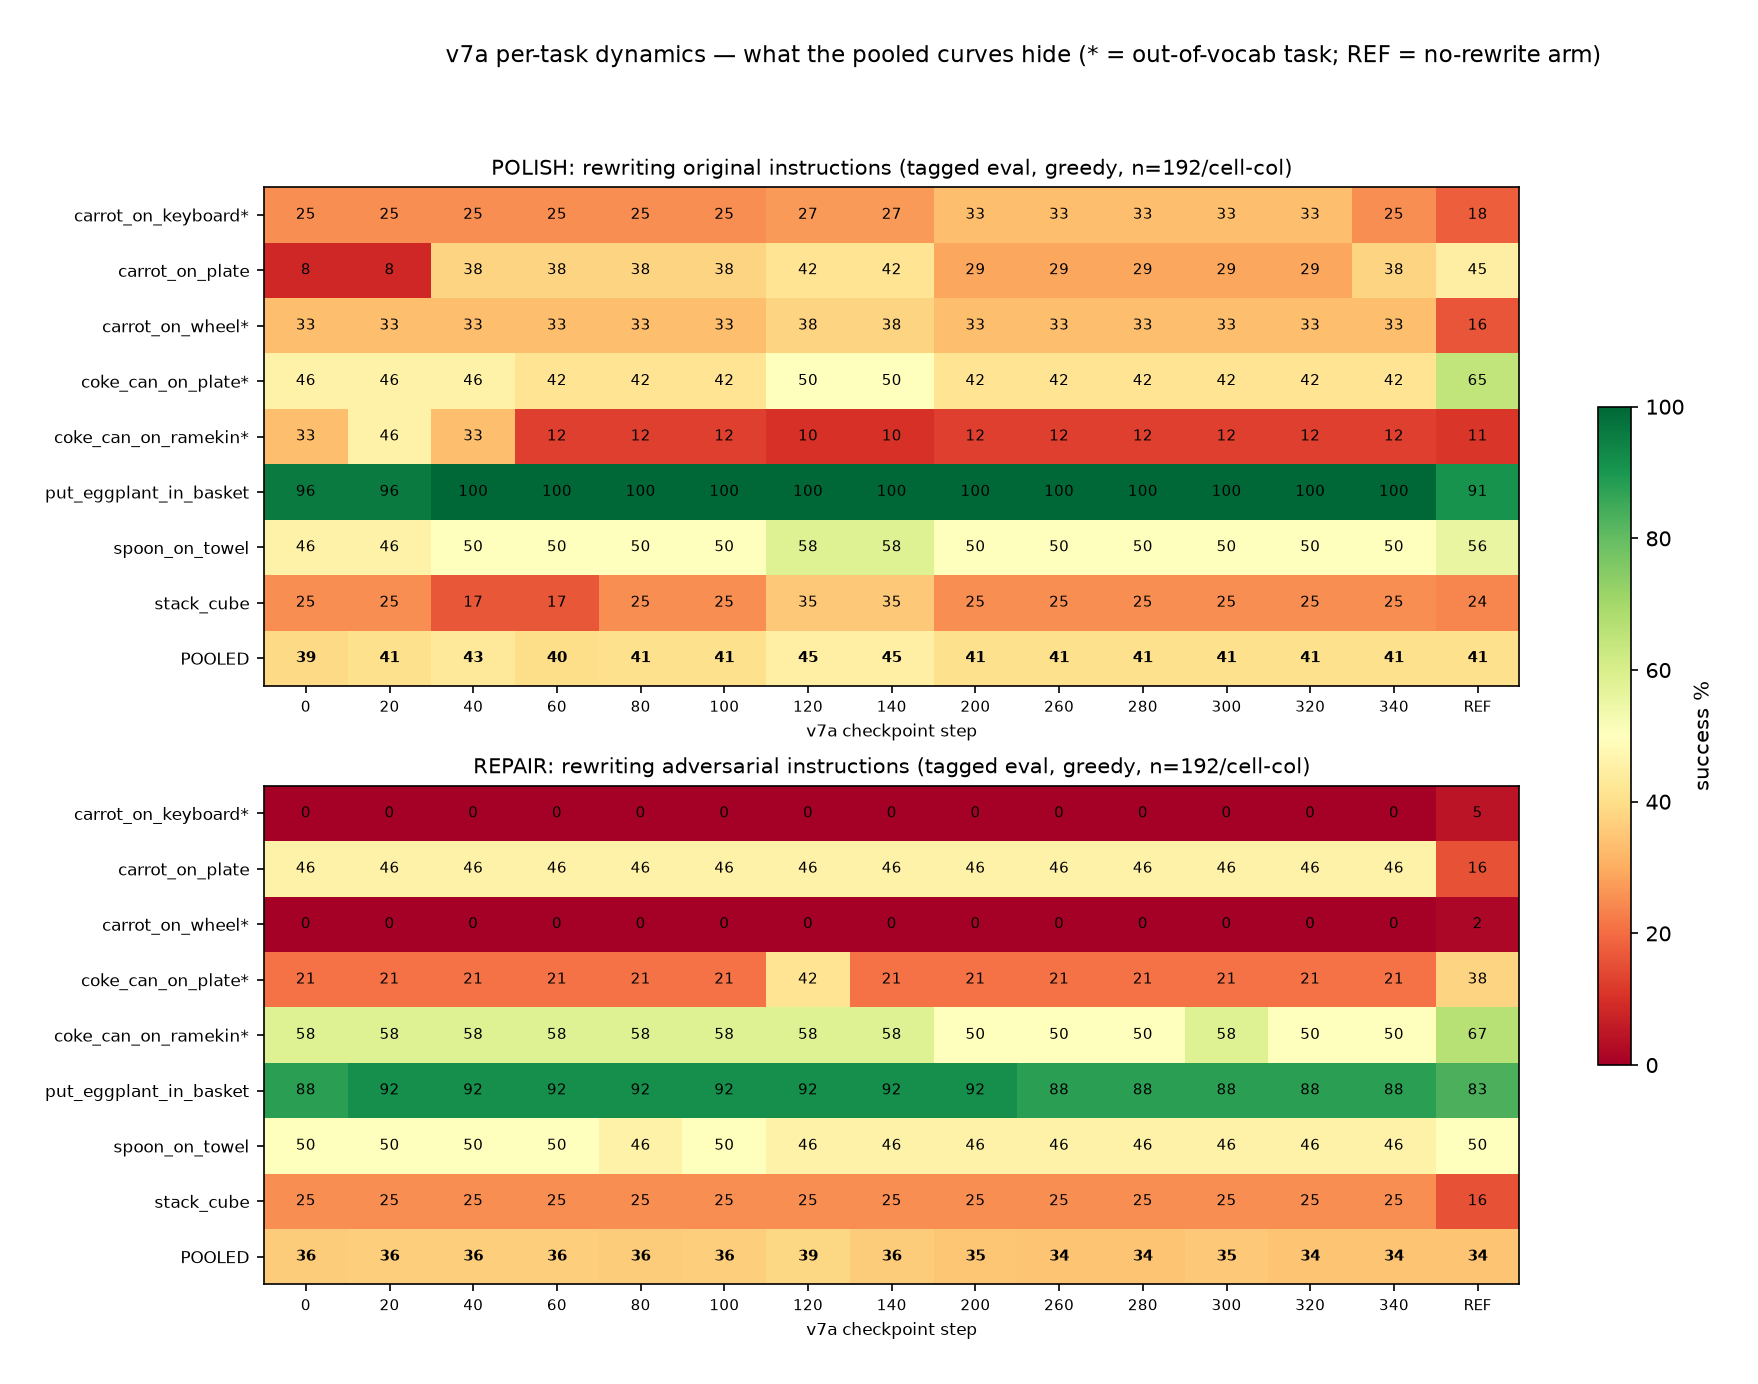
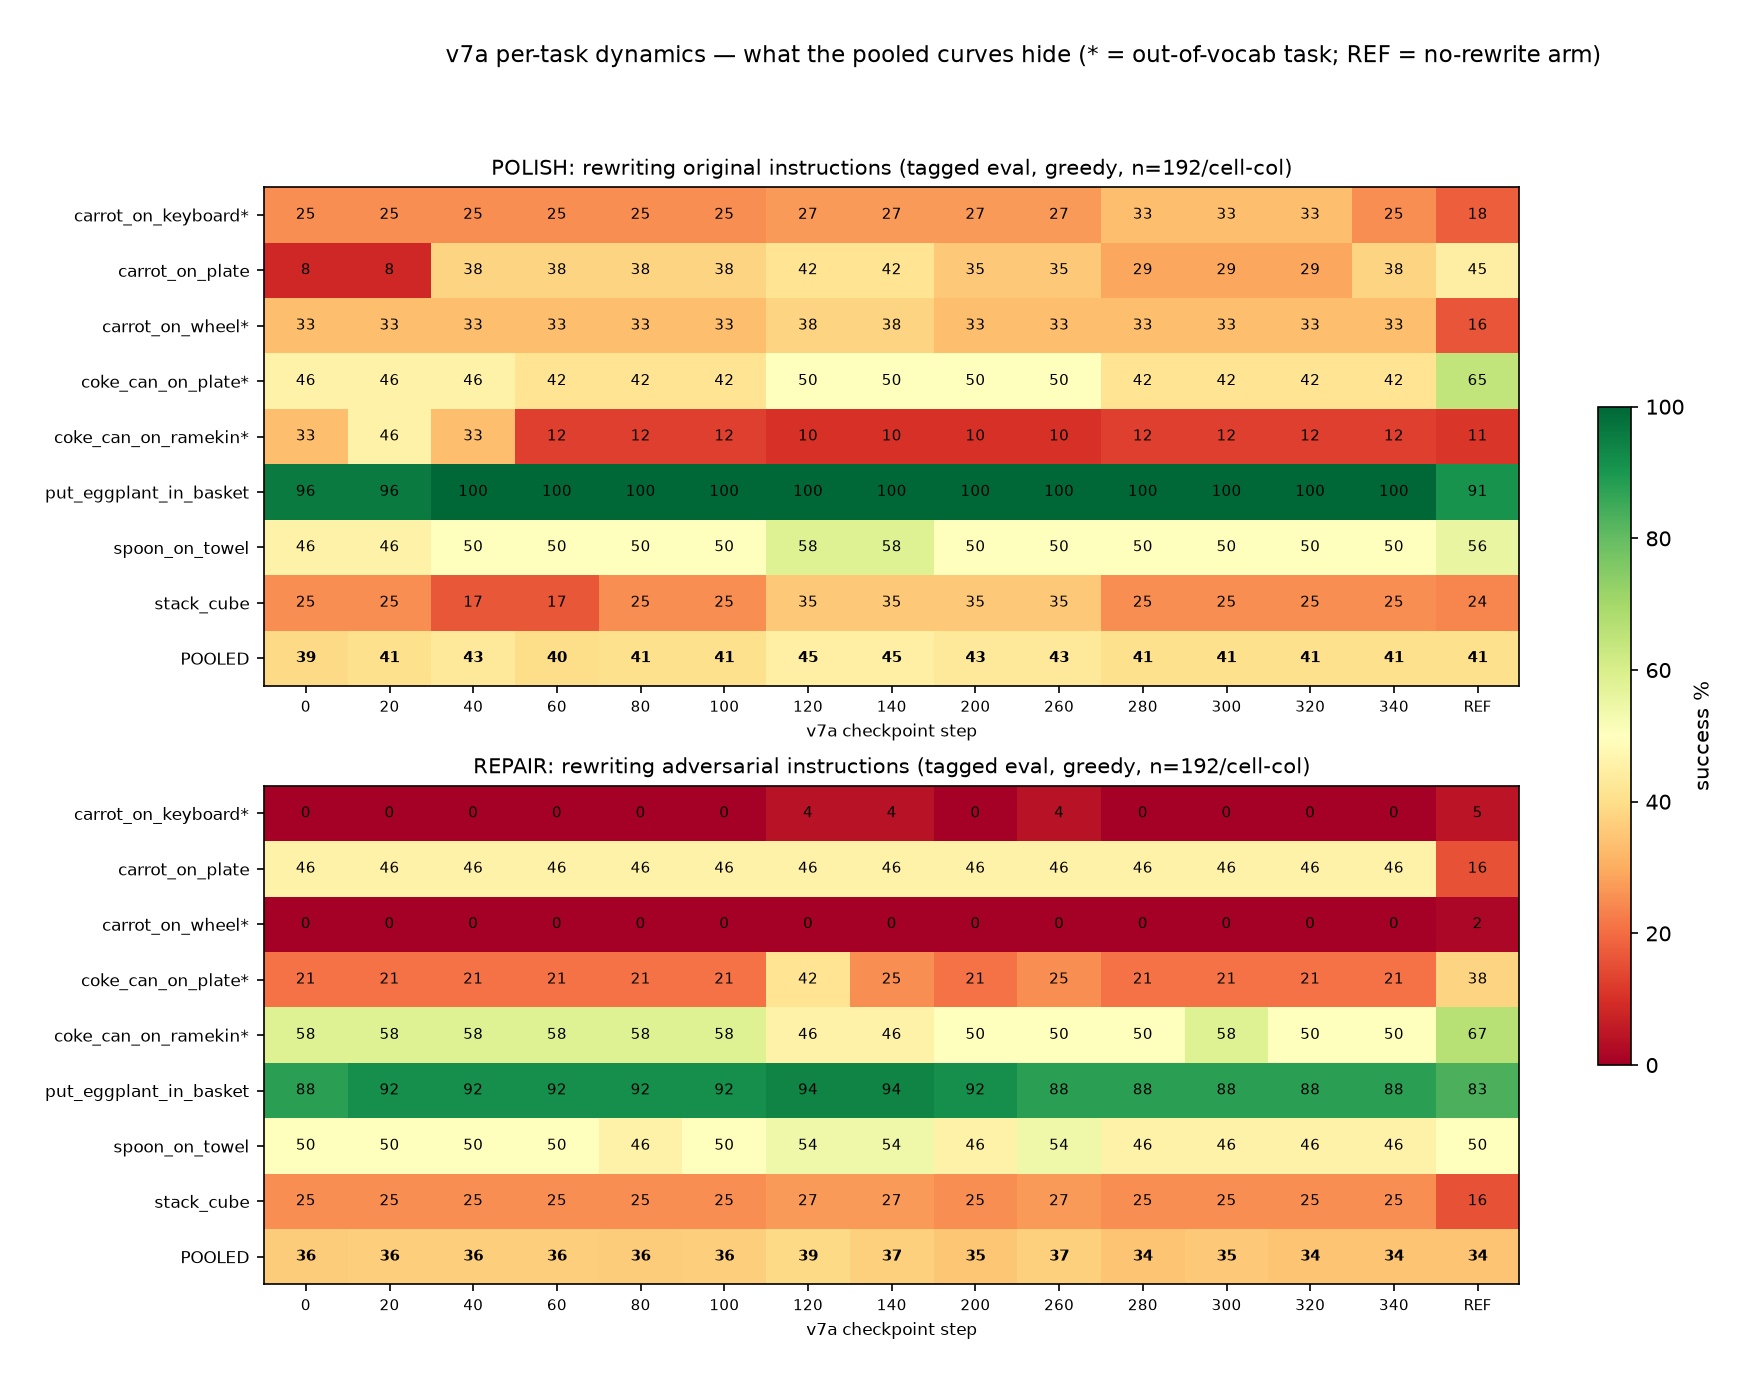
deep repair-120 confirms ckpt-120 best in both conditions; charts updated

diff --git a/EXPERIMENT.md b/EXPERIMENT.md
@@ -2289,3 +2289,13 @@ C=10 (~86-92% band, ~7h overnight); (4) edit analysis: categorize winner-vs-
 original diffs (color adjectives, noun renames, verb changes, length) and rank
 transformations by reward delta — rules-derivation methodology on training data.
 Baseline layer (as-written club ranking at F4xC<=20) finishing separately.
+
+## 2026-07-29 16:45 — deep repair-120 CONFIRMS checkpoint-120 as v7a's best (user call)
+Deep (n=384): repair-120 = 39.06 (+4.6 over Adversarial 34.5, ~1.8sigma) — the
+only repair point that STRENGTHENED under deepening (140 regressed to 36.98,
+260 to 36.72 = init band). With deep polish-120 = 45.05 (+4.4, ~1.8sigma),
+checkpoint 120 is the sole checkpoint above reference in BOTH conditions at
+doubled precision. Its repair edge concentrates in coke_can_on_plate (41.7 vs
+21-25 at neighbors) + the matrix's only nonzero keyboard repair (4.2). Deep
+polish 200/260 both 42.71 (+2.1, decay only partial through 260). Deployment
+recommendation: v7a step_0120 is the checkpoint of record.
